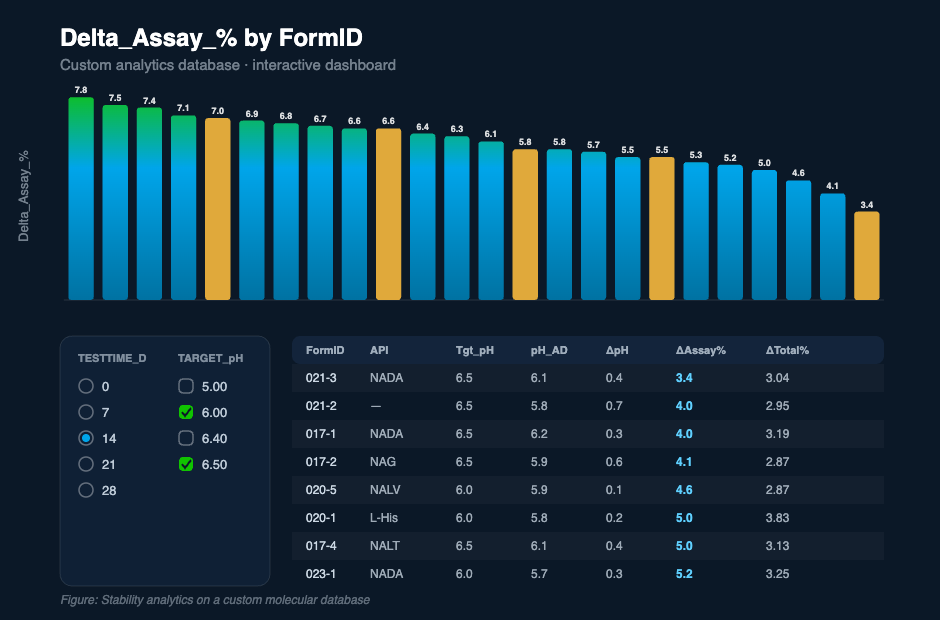
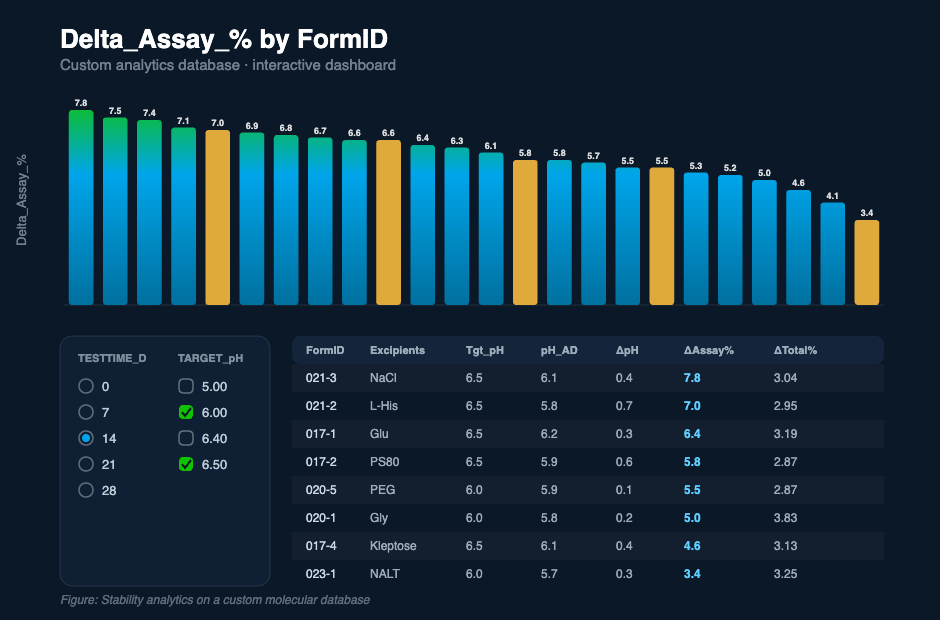
popravljena drug discovery slika, svg je postala

diff --git a/index.html b/index.html
@@ -478,7 +478,7 @@ button.cap:focus-visible{outline:2px solid var(--bright);outline-offset:-2px}
 
   <article class="cs" id="cs-12">
     <div class="cs-hero">
-      <div class="cs-figure"><image-slot id="img-12" src="fig-12.png?v=6" placeholder="Drop a dashboard / model figure" fit="contain"></image-slot></div>
+      <div class="cs-figure"><image-slot id="img-12" src="fig-12.png?v=9" placeholder="Drop a dashboard / model figure" fit="contain"></image-slot></div>
       <div class="cs-head">
         <span class="cs-tag">Case Study · Advanced Analytics</span>
         <h3>Patterns in any system</h3>
@@ -540,7 +540,7 @@ button.cap:focus-visible{outline:2px solid var(--bright);outline-offset:-2px}
 
   <article class="cs" id="cs-5">
     <div class="cs-hero">
-      <div class="cs-figure"><image-slot id="img-5" src="fig-5.png?v=6" placeholder="Drop a response-surface / DoE figure" fit="contain"></image-slot></div>
+      <div class="cs-figure"><image-slot id="img-5" src="fig-5.png?v=10" placeholder="Drop a response-surface / DoE figure" fit="contain"></image-slot></div>
       <div class="cs-head">
         <span class="cs-tag">Case Study · Quality by Design</span>
         <h3>Finding the optimal solution</h3>
@@ -636,7 +636,7 @@ button.cap:focus-visible{outline:2px solid var(--bright);outline-offset:-2px}
 
   <article class="cs" id="cs-8">
     <div class="cs-hero">
-      <div class="cs-figure"><image-slot id="img-8" src="inv-discovery-flow.png?v=6" placeholder="Drop the pipeline diagram" fit="contain"></image-slot></div>
+      <div class="cs-figure"><image-slot id="img-8" src="fig-8.svg?v=14" placeholder="Drop the pipeline diagram" fit="contain"></image-slot></div>
       <div class="cs-head">
         <span class="cs-tag">Case Study · Drug Discovery</span>
         <h3>AI-powered drug discovery pipeline</h3>
